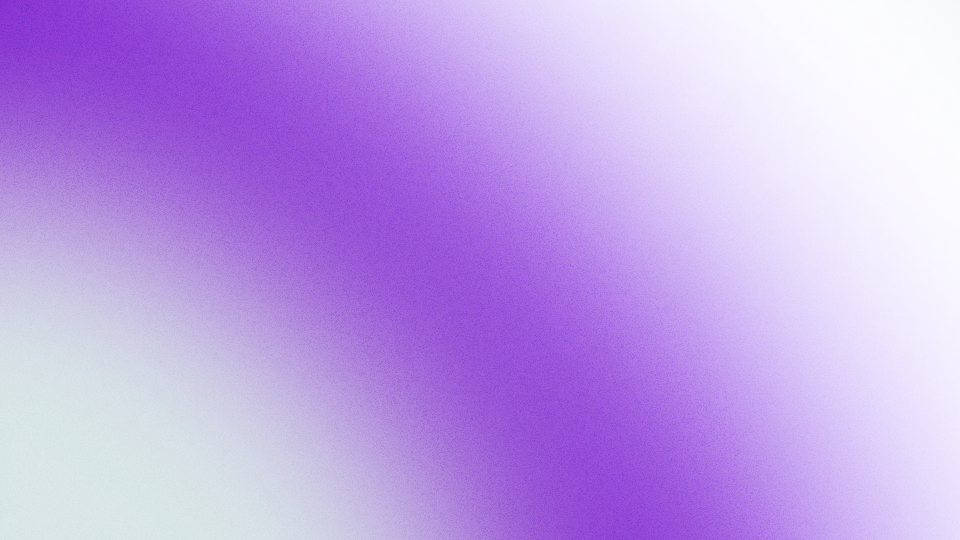
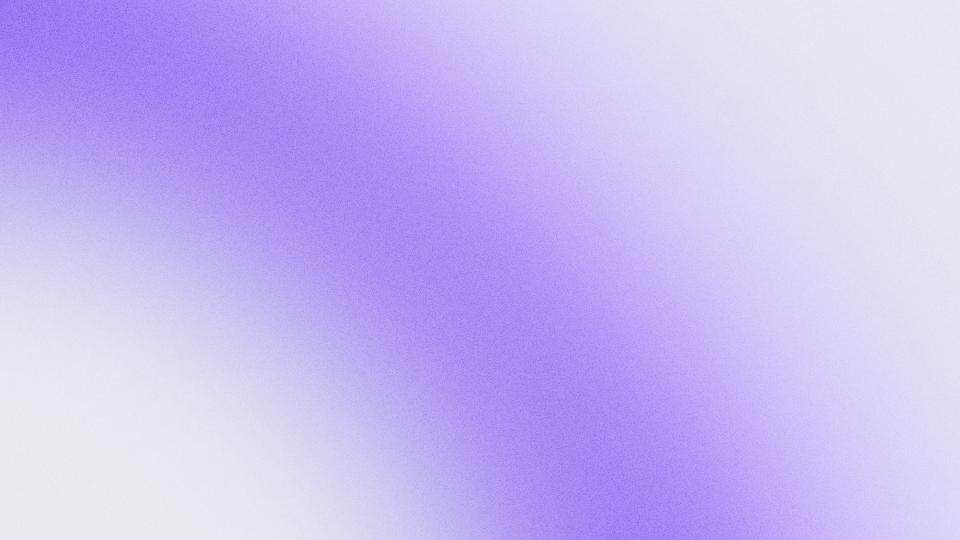
fixed salesverse background

diff --git a/index.html b/index.html
@@ -3140,7 +3140,7 @@
 
                     <a href="pages/sales_verse_website.html" class="card-link" data-category="ui-design ">
                         <article class="card">
-                            <div class="card-media" style="--card-bg-img: url('assets/images/projects/backgrounds/sales_verse.png');">
+                            <div class="card-media" style="--card-bg-img: url('assets/images/projects/backgrounds/sales_verse_2.png');">
                                 <img src="assets/images/portifolio/salesVerse/hero_section.png" alt="Smart Home App">
                                 <div class="card-arrow"><i class="ri-arrow-right-up-line"></i></div>
                             </div>
